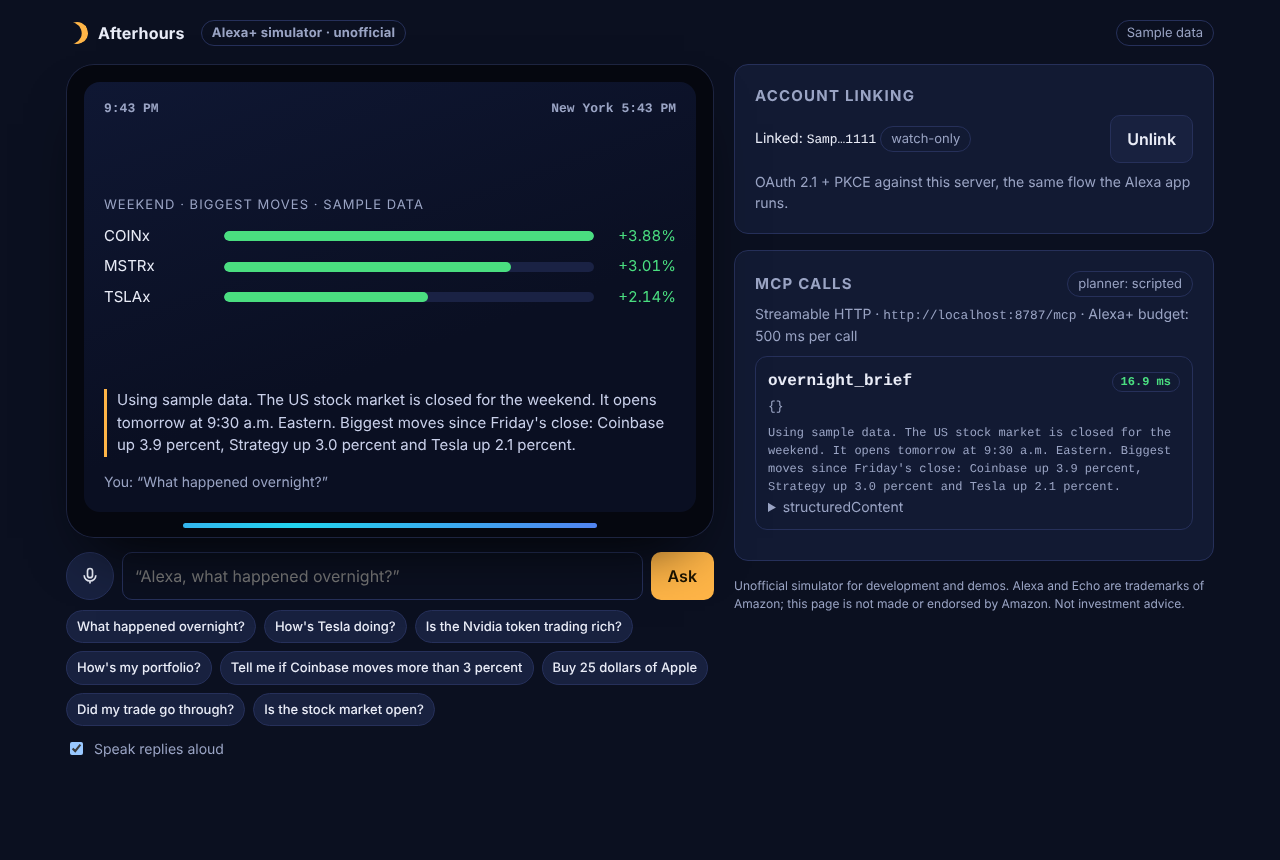
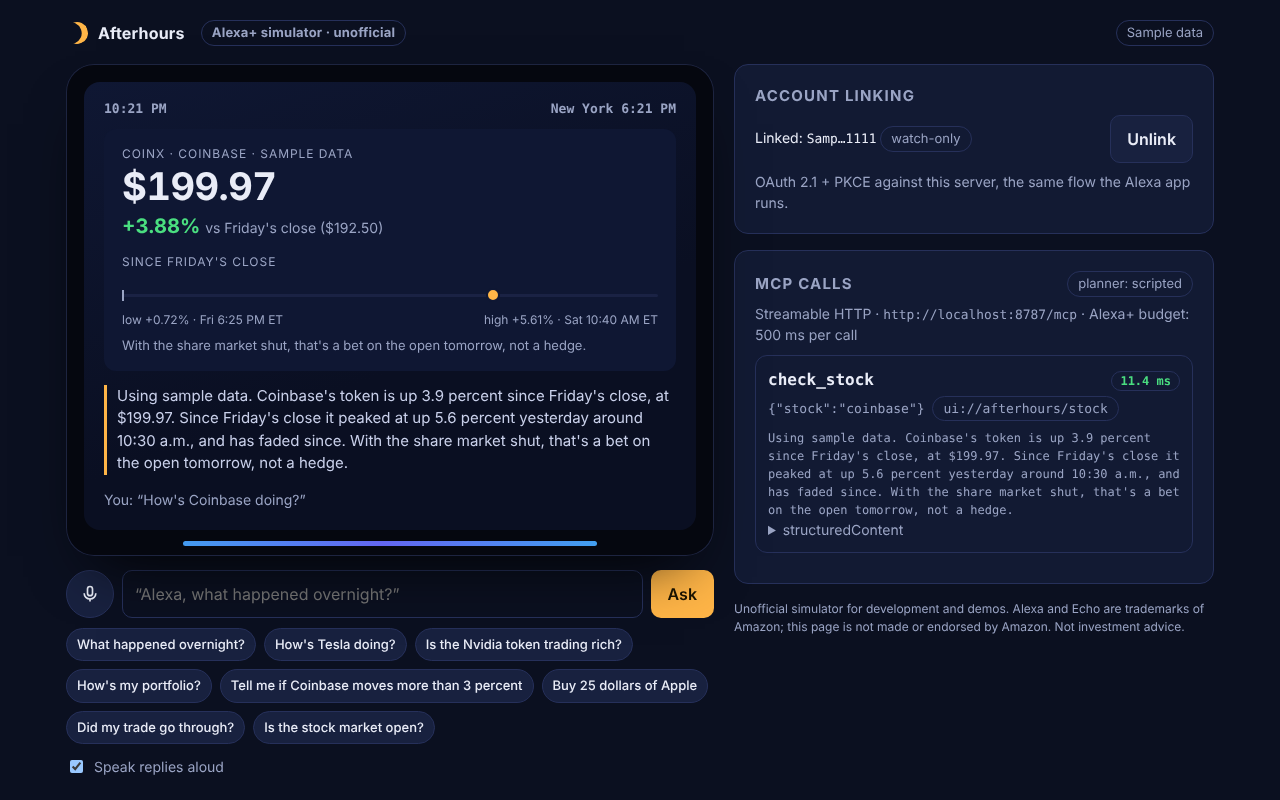
One-click deploy to Render; public URL from the platform
- render.yaml blueprint: Docker web service in Virginia with a generated
  AUTH_SECRET and a health check, plus a Deploy to Render button
- PUBLIC_URL falls back to RENDER_EXTERNAL_URL or Vercel's production URL,
  and the HTTPS deployment guard applies to those too
- Simulator trace shows the ui:// card each tool call rendered; README
  screenshot refreshed with the card and overnight range

Claude-Session: https://claude.ai/code/session_013jQno47TWMxY5RP5TL96to

diff --git a/src/http/simulator.ts b/src/http/simulator.ts
@@ -150,7 +150,7 @@ function visual(step,reply){const d=step&&step.structured;const v=$("visual");if
  default:v.innerHTML="<div class=hello>"+escH(reply)+"</div>"}}
 function trace(turn){const t=$("trace");$("planner").textContent="planner: "+turn.planner+(turn.fallbackReason?" (fallback)":"");
  if(!turn.steps.length){t.innerHTML="<p class='small muted'>No tool call for that.</p>";return}
- t.innerHTML=turn.steps.map(s=>"<div class=step><header><span class=name>"+escH(s.tool)+"</span><span class='ms "+(s.ms<500?"ok":"slow")+"'>"+s.ms+" ms</span></header><div class=args>"+escH(JSON.stringify(s.args))+"</div><pre>"+escH(s.text)+"</pre>"+(s.structured?"<details><summary class='small muted'>structuredContent</summary><pre>"+escH(JSON.stringify(s.structured,null,2))+"</pre></details>":"")+"</div>").join("")}
+ t.innerHTML=turn.steps.map(s=>"<div class=step><header><span class=name>"+escH(s.tool)+"</span><span class='ms "+(s.ms<500?"ok":"slow")+"'>"+s.ms+" ms</span></header><div class=args>"+escH(JSON.stringify(s.args))+(s.ui?" <span class=pill title='MCP Apps card rendered on the screen'>"+escH(s.ui.uri)+"</span>":"")+"</div><pre>"+escH(s.text)+"</pre>"+(s.structured?"<details><summary class='small muted'>structuredContent</summary><pre>"+escH(JSON.stringify(s.structured,null,2))+"</pre></details>":"")+"</div>").join("")}
 function say(text){if(!$("speak").checked||!("speechSynthesis" in window)){light("");return}
  speechSynthesis.cancel();const u=new SpeechSynthesisUtterance(text);u.rate=1.02;const en=speechSynthesis.getVoices().find(v=>/en-US/.test(v.lang)&&/Samantha|Google US|Joanna|Aria|Jenny/.test(v.name));if(en)u.voice=en;
  u.onstart=()=>light("speaking");u.onend=()=>light("");speechSynthesis.speak(u)}

diff --git a/test/security.test.ts b/test/security.test.ts
@@ -79,3 +79,15 @@ describe("deployment guards", () => {
     expect(servicesFromEnv({ PUBLIC_URL: "https://a.example", AUTH_SECRET: "x".repeat(40) }).authRequired).toBe(true);
   });
 });
+
+describe("public URL", () => {
+  it("comes from PUBLIC_URL, else the platform, else localhost", () => {
+    const secret = { AUTH_SECRET: "x".repeat(40) };
+    expect(servicesFromEnv({ ...secret, PUBLIC_URL: "https://mine.example/" }).baseUrl).toBe("https://mine.example");
+    expect(servicesFromEnv({ ...secret, RENDER_EXTERNAL_URL: "https://afterhours.onrender.com" }).baseUrl).toBe("https://afterhours.onrender.com");
+    expect(servicesFromEnv({ ...secret, VERCEL_PROJECT_PRODUCTION_URL: "afterhours.vercel.app" }).baseUrl).toBe("https://afterhours.vercel.app");
+    expect(servicesFromEnv({}).baseUrl).toBe("http://localhost:8787");
+    // A platform URL is HTTPS, so the deployment guard applies to it too.
+    expect(() => servicesFromEnv({ RENDER_EXTERNAL_URL: "https://afterhours.onrender.com" })).toThrow(/AUTH_SECRET/);
+  });
+});

diff --git a/src/services.ts b/src/services.ts
@@ -28,7 +28,10 @@ export interface Services {
 export function servicesFromEnv(env: NodeJS.ProcessEnv = process.env): Services {
   const sample = env.AFTERHOURS_DATA === "sample";
   const port = env.PORT ?? "8787";
-  const baseUrl = (env.PUBLIC_URL ?? `http://localhost:${port}`).replace(/\/$/, "");
+  // The public origin: set explicitly, or taken from the platform.
+  const platformUrl =
+    env.RENDER_EXTERNAL_URL ?? (env.VERCEL_PROJECT_PRODUCTION_URL ? `https://${env.VERCEL_PROJECT_PRODUCTION_URL}` : undefined);
+  const baseUrl = (env.PUBLIC_URL || platformUrl || `http://localhost:${port}`).replace(/\/$/, "");
   const rpcUrl = env.SOLANA_RPC_URL ?? "https://api.mainnet-beta.solana.com";
   const jupiter = env.JUPITER_ENDPOINT ?? "https://lite-api.jup.ag";
 

diff --git a/README.md b/README.md
@@ -89,7 +89,13 @@ Tests (100, no network needed): `npm test`. They cover the OAuth flow, every too
 
 ## Deploy
 
-**Docker / AWS App Runner (recommended for latency).** A long-running process keeps the price cache warm.
+**Fastest: Render.** [![Deploy to Render](https://render.com/images/deploy-to-render-button.svg)](https://render.com/deploy?repo=https://github.com/ramadan904/afterhours)
+The blueprint (`render.yaml`) builds the Docker image, generates `AUTH_SECRET`, runs in Virginia (close to Alexa), and
+uses Render's HTTPS URL as the public URL. It's a long-running service, so the overnight tape samples on its own
+timer. (Render's free plan sleeps when idle, which breaks the 500 ms budget on the first call and pauses the tape; use
+Starter or above for judging.)
+
+**Docker / AWS App Runner.** A long-running process keeps the price cache warm.
 
 ```bash
 docker build -t afterhours .
